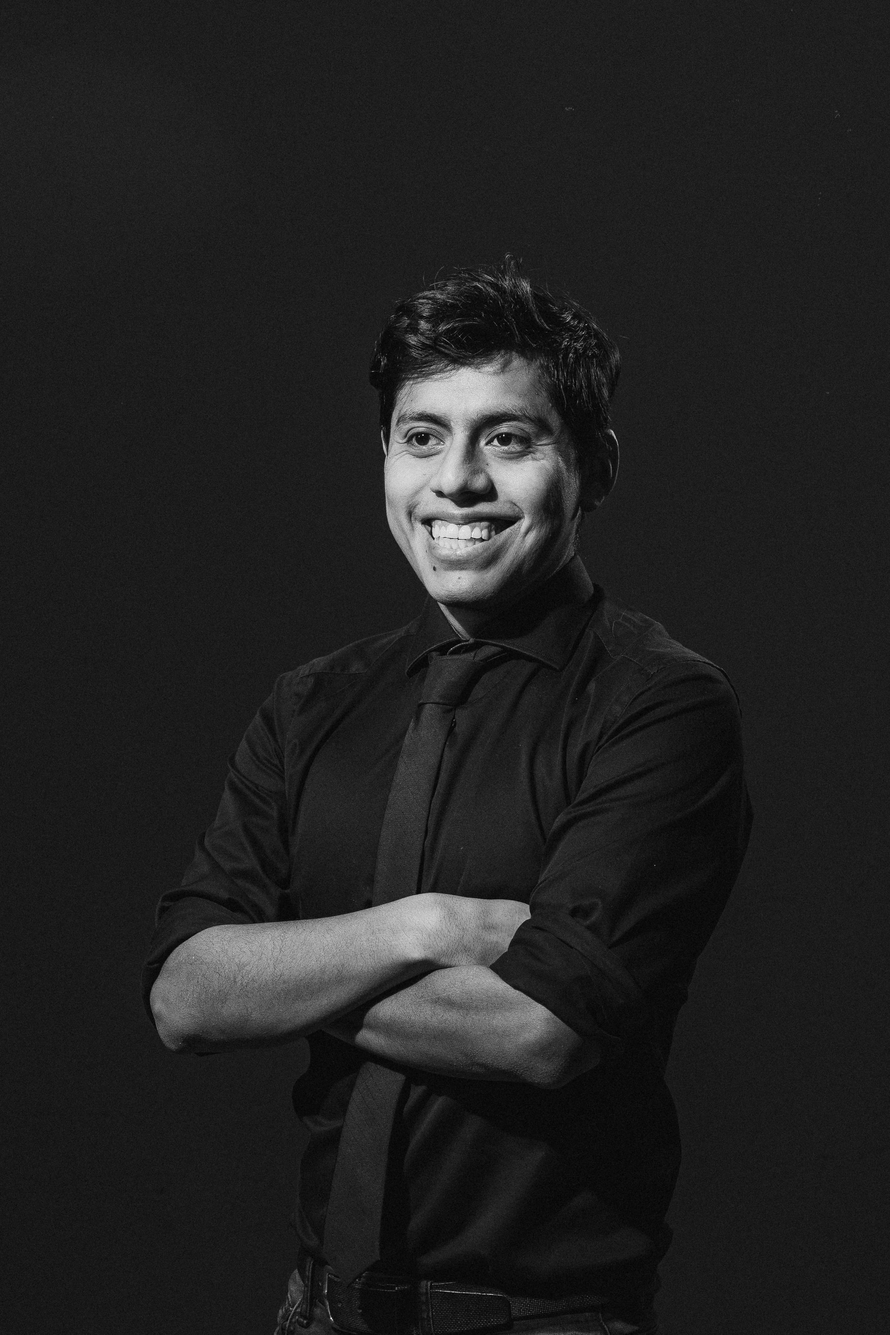
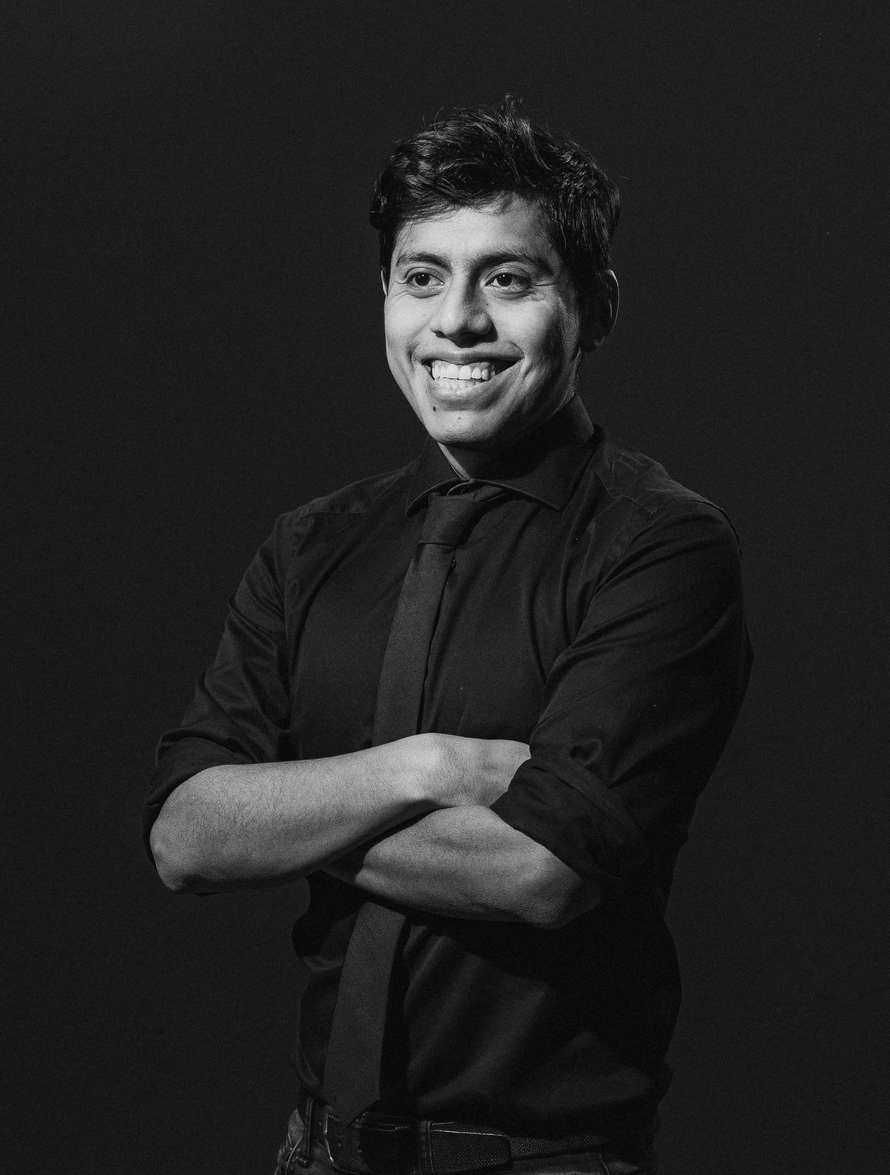
Fix about mobile

diff --git a/js/aboutJS.js b/js/aboutJS.js
@@ -452,42 +452,32 @@ async function resizeTeam(animation = true) {
     const newSize1 = {width: newWidth, height: newWidth * originalSize1.height / originalSize1.width};
     const newSize2 = {width: newWidth, height: newWidth * originalSize2.height / originalSize2.width};
 
-    $("#team-container").css({"height": (newSize1.height + newSize2.height - 125) + "px"});
-
-    $(".person-container:eq(0), .person-container:eq(2), .person-container:eq(4)").css({
-        "width": newSize2.width + "px",
-        "height": newSize2.height + "px"
-    });
-    $(".person-container:eq(1), .person-container:eq(3), .person-container:eq(5)").css({
-        "width": newSize1.width + "px",
-        "height": newSize1.height + "px"
-    });
-    $(".person-container:eq(1), .person-container:eq(4)").css({"left": newWidth + "px"});
-    $(".person-container:eq(2), .person-container:eq(5)").css({"left": (newWidth * 2) + "px"});
-    $(".person-container:eq(4)").css({"top": newSize1.height + "px"});
-    $(".person-container:eq(3), .person-container:eq(5)").css({"top": newSize2.height + "px"});
-
-    if(oneTime){
-        $('.person-container').each(function () {
-            heightTotal += $(this).height();
-            $('#heightJS').css({"height": heightTotal / 3 + 'px'})
-            // console.log(heightTotal)
-            oneTime = false;
+    // $("#team-container").css({"height": (newSize1.height + newSize2.height - 125) + "px"});
+    
+    $(".person-container").css({left: 0, top: 0});
+    
+    if ($(window).width() >= 1024) {
+        $(".person-container:eq(0), .person-container:eq(2), .person-container:eq(4)").css({
+            "width": newSize2.width + "px",
+            "height": newSize2.height + "px"
         });
+        $(".person-container:eq(1), .person-container:eq(3), .person-container:eq(5)").css({
+            "width": newSize1.width + "px",
+            "height": newSize1.height + "px"
+        });
+        $(".person-container:eq(1), .person-container:eq(4)").css({"left": newWidth + "px"});
+        $(".person-container:eq(2), .person-container:eq(5)").css({"left": (newWidth * 2) + "px"});
+        $(".person-container:eq(4)").css({"top": newSize1.height + "px"});
+        $(".person-container:eq(3), .person-container:eq(5)").css({"top": newSize2.height + "px"});
 
+        $('#heightJS').css({"height": newSize1.height + newSize2.height + 'px'});
     }
-
-
-
-    if ($(window).width() < 1024) {
-        $(".person-container:eq(1), .person-container:eq(2)").css({"left": newWidth + "px"});
-        $(".person-container:eq(4)").css({"left": (newWidth * 2) + "px"});
-        $(".person-container:eq(3)").css({"top": newSize1.height + "px"});
-        $(".person-container:eq(2)").css({"top": newSize2.height + "px"});
-        $(".person-container:eq(4),.person-container:eq(5)").css({"top": newSize2.height + newSize1.height + "px"});
-        $('.person-container:eq(4)').css({"left": 0});
-        $('.person-container:eq(5)').css({"left": newWidth + "px"});
-        $('#heightJS').css({"height": newSize2.height * 2 + newSize1.height + 'px'})
+    else {
+        $(".person-container").css({height: newSize1.height, width: newSize1.width});
+        $(".person-container:eq(1), .person-container:eq(3), .person-container:eq(5)").css({"left": newWidth + "px"});
+        $(".person-container:eq(2), .person-container:eq(3)").css({"top": newSize1.height + "px"});
+        $(".person-container:eq(4), .person-container:eq(5)").css({"top": newSize1.height * 2 + "px"});
+        $('#heightJS').css({"height": newSize1.height * 3 + 'px'})
     }
 
 

diff --git a/css/about.css b/css/about.css
@@ -388,6 +388,10 @@ div > .uno {
   z-index: -1;
 }
 
+/* #armando {
+  margin-top: -83px
+} */
+
 .person-links {
   opacity: 0;
   width: 100%;
@@ -631,9 +635,9 @@ div > .uno {
     margin-bottom: 0;
   }
 
-  .has-text-centered.makuda-bgcolor {
+  /* .has-text-centered.makuda-bgcolor {
     margin-top: 0 !important;
-  }
+  } */
 
   #containerCounter > div {
     padding-top: 100px !important;

diff --git a/about.php b/about.php
@@ -136,7 +136,7 @@
             </div>
         </div>
         <div class="person-container">
-            <img src="/media/img/team/6.jpg" class="person-image" style="margin-top: -83px">
+            <img id="armando" src="/media/img/team/6.jpg" class="person-image">
             <ul class="person-links">
                 <li><a class="person-link" href="https://www.instagram.com/armagaluf_/">Instagram</a></li>
                 <li><a class="person-link" href="https://www.linkedin.com/in/armando-aspesani-4592a0129/">LinkedIn</a>
@@ -151,7 +151,7 @@
     </div>
 </div>
 
-<div class=" has-text-centered makuda-bgcolor" style="margin-top: -100px" id="containerCounter">
+<div class=" has-text-centered makuda-bgcolor" style="margin-top: 40px" id="containerCounter">
     <div class="container">
         <div style="display: flex;">
             <div style="flex: 1"></div>
